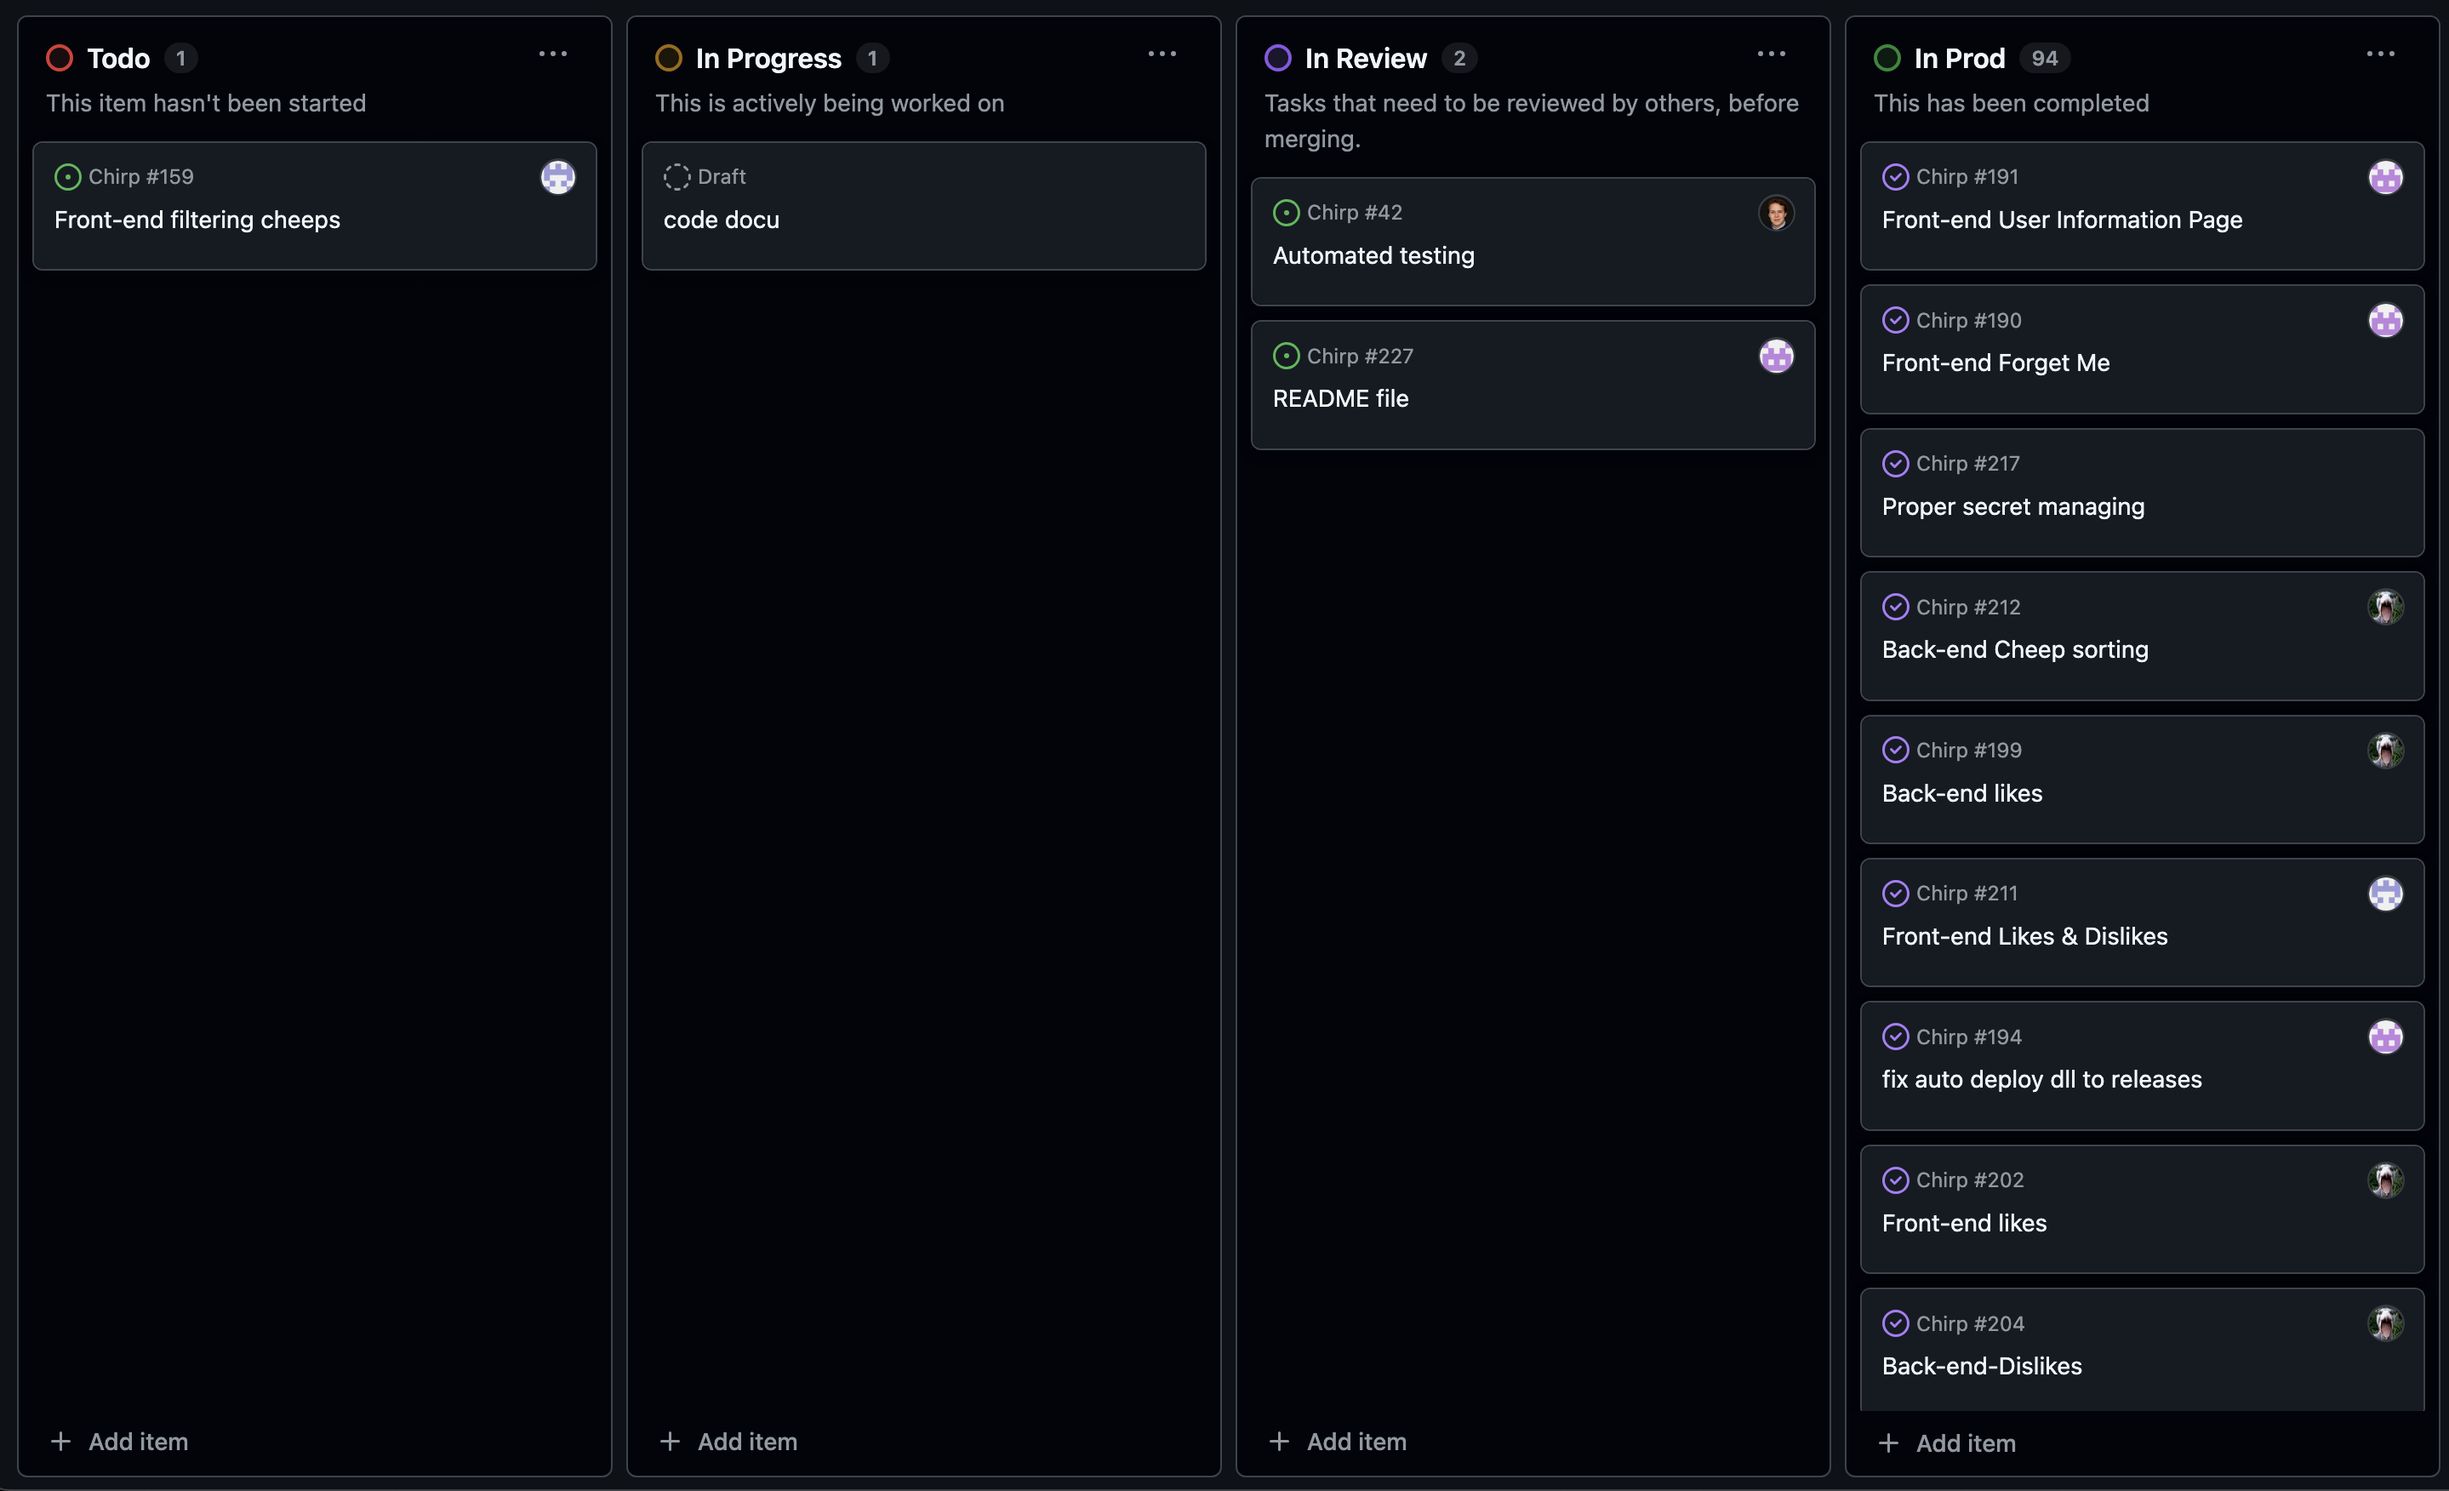
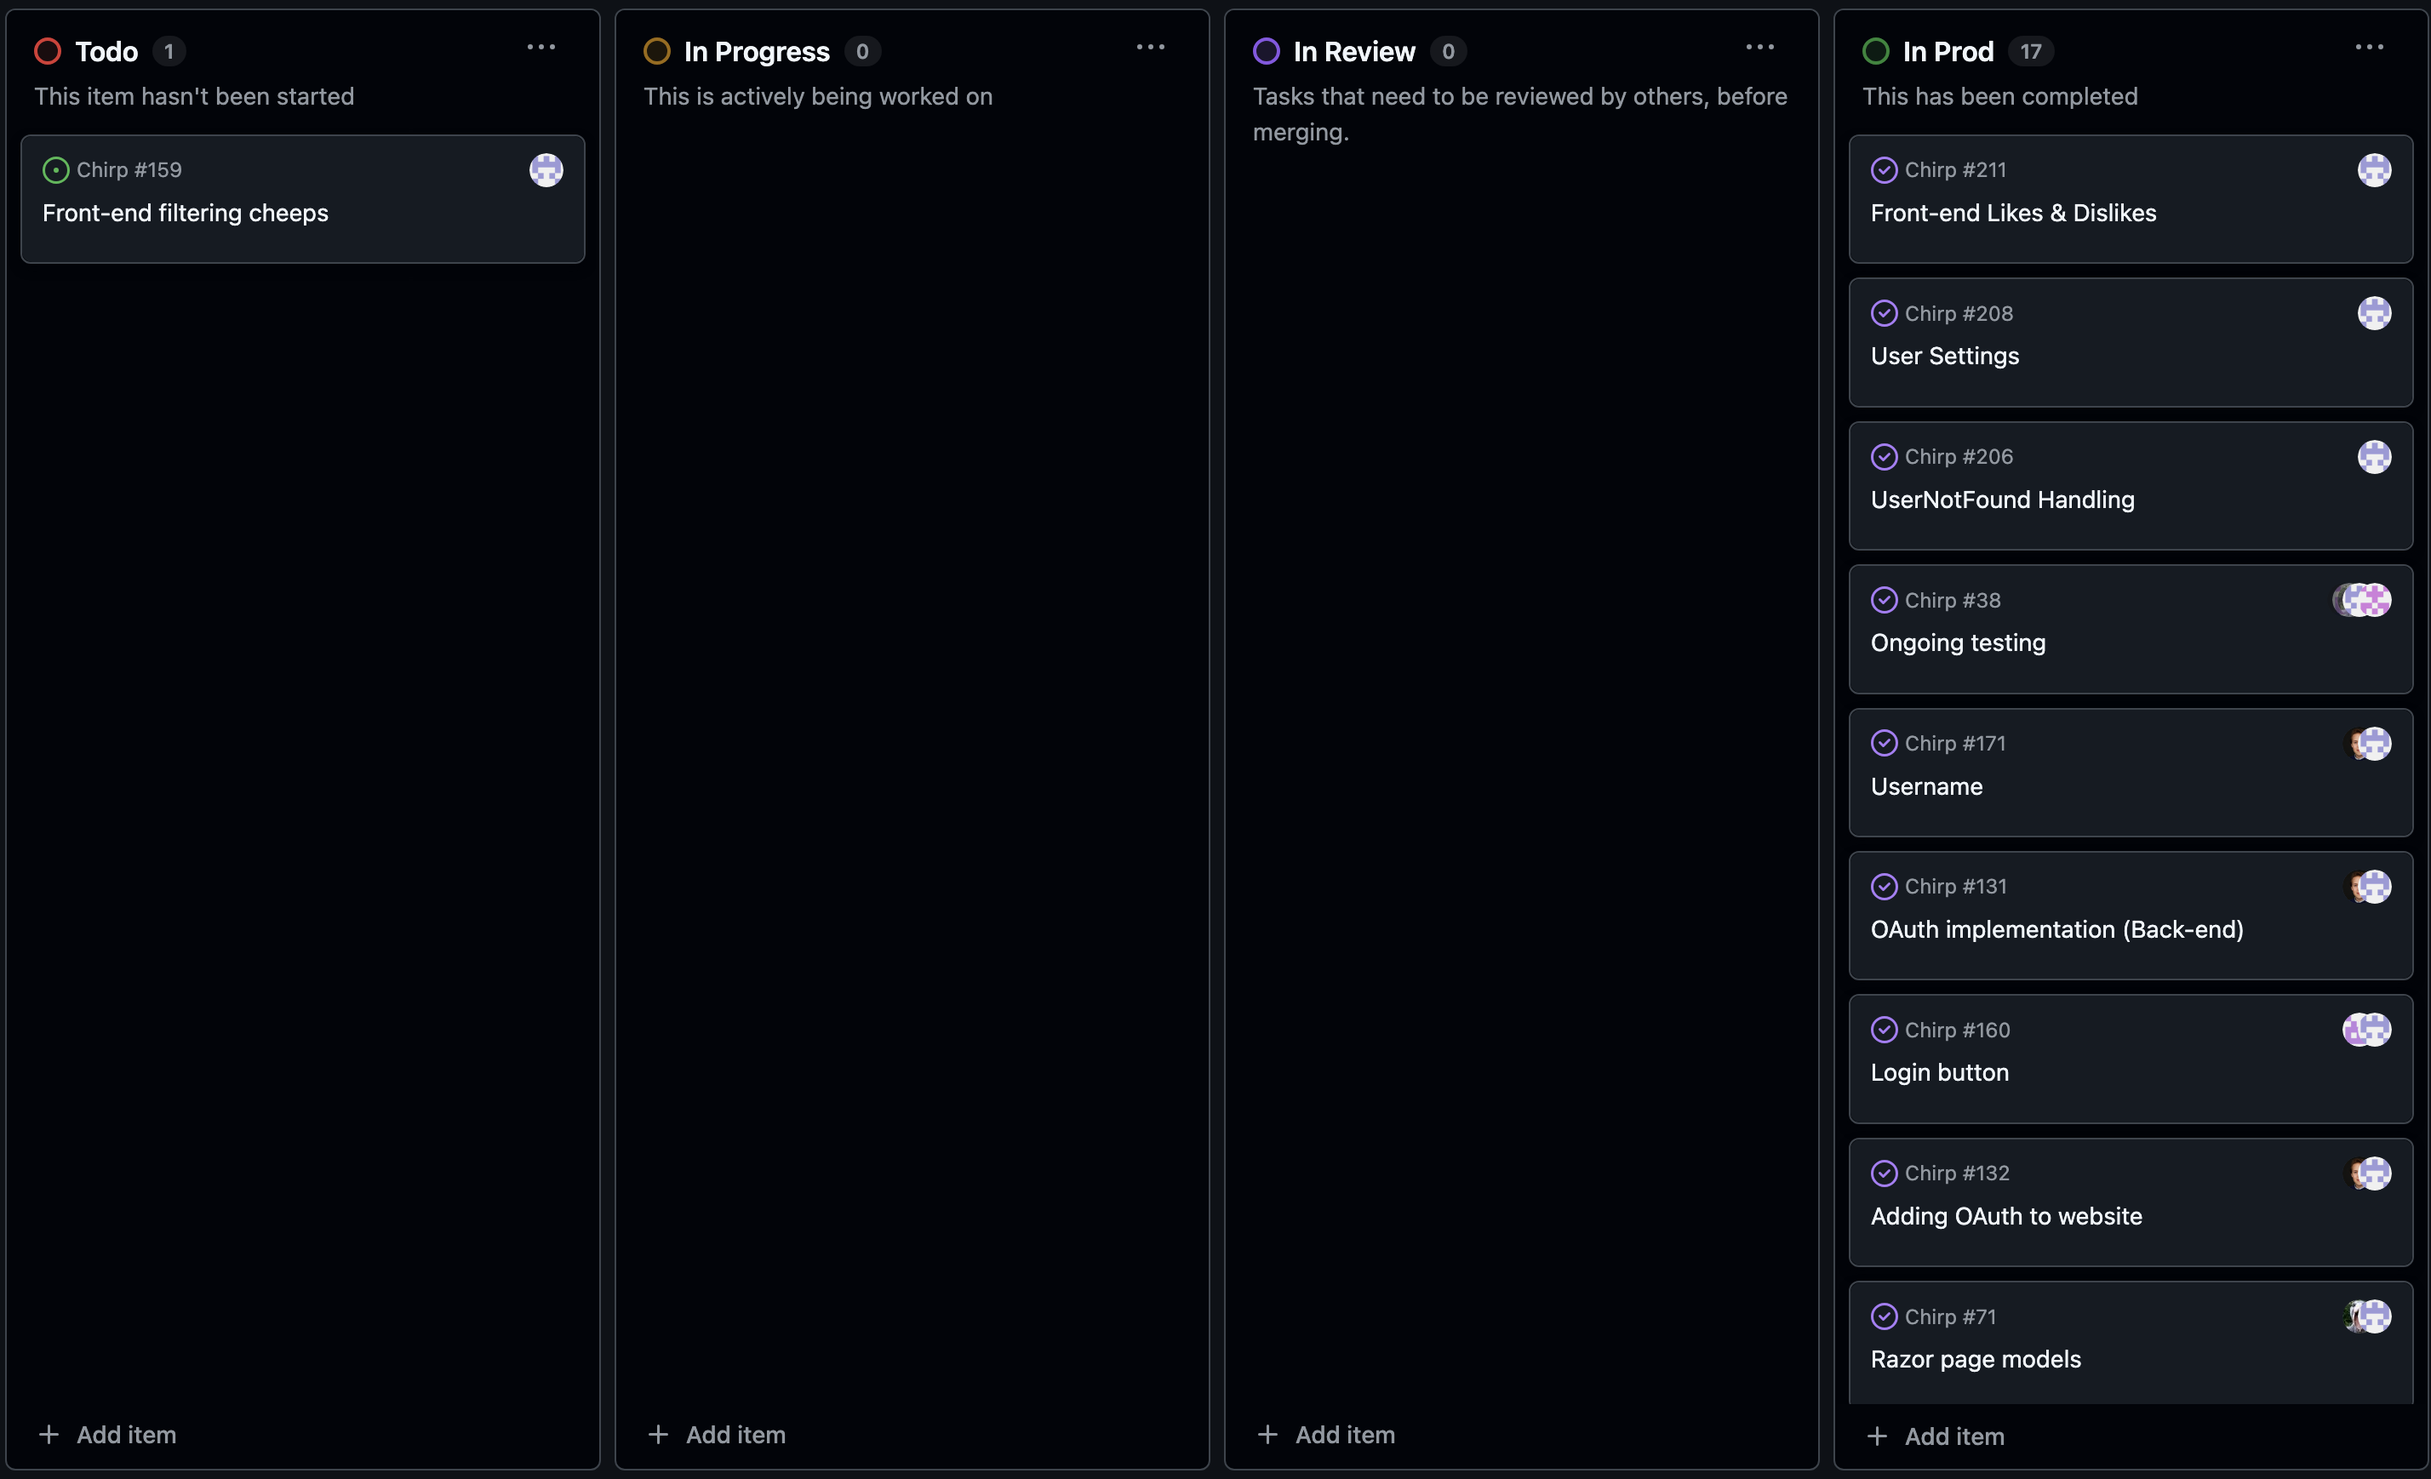
add project board and description

Changed region(s): [[0.0, 0.0, 1.0, 1.0]]

diff --git a/docs/pages/3Ethics/2LLMsChatGPTCoPilotAndOthers.md b/docs/pages/3Ethics/2LLMsChatGPTCoPilotAndOthers.md
@@ -5,12 +5,12 @@
 % Discuss briefly if application of LLMs sped up your development or if the contrary was the case.
 
 
-The LLMs which were used throughout the developement process were: ChatGPT, GitHub CoPilot and Codium.
+The LLMs which were used throughout the development process were: ChatGPT, GitHub CoPilot and Codium.
 
 All three LLMs were used mainly for debugging. For the generation of most of the documentation, it was only ChatGPT which was used.
 
 As a rule, whenever any of the LLMs generated any code which was used, it was co-authored in the commit where that piece of code was included.
 If an LLM was used simply for sparring to find the root cause of a bug, it was not included in the co-author message.
 
-Interms of the value of there responses it varied. Sometimes, it was a smnall human error which was overseen. In other more complex cases, it required a greater understanding of the program which the LLMs, espically ChatGPT lacked. In these situations, the LLMs which are built in to text editors, GitHub CoPilot and Codium, were able to gather more information, but were still not always able to solve errors.
+In terms of the value of there responses it varied. Sometimes, it was a small human error which was overseen. In other more complex cases, it required a greater understanding of the program which the LLMs, especially ChatGPT lacked. In these situations, the LLMs which are built in to text editors, GitHub CoPilot and Codium, were able to gather more information, but were still not always able to solve errors.
 This may have lead to some spirals throughout the development process and over-relying on an LLM to find a solution.

diff --git a/docs/pages/2Process/2TeamWork.md b/docs/pages/2Process/2TeamWork.md
@@ -2,6 +2,18 @@
 
 Briefly describe and illustrate the flow of activities that happen from the new creation of an issue (task description), over development, etc. until a feature is finally merged into the main branch of your repository. -->
 
+### Project Board
+
+![Current Project Board](../../images/project_board.png)
+
+<!-- last updated the 17 december -->
+
+This is an image of the project board before submission. The only issue which is incomplete prior to submission, is the "Front-end filtering cheeps".
+This issue refers to filtering what the user can search by, to select if they can search by email, author name or cheep content.
+This issue was not a core requirement, more of a quality of life for the user.
+
+### Process of Task to Implementation
+
 Once given a task description, it is formulated into an issue. Once all tasks have been made into issues, they are distributed to one or multiple contributors, depending on the assumed size of the issue.
 
 Once the issue has been started, it is moved from the `Todo` column to the `In Progress` column. 
